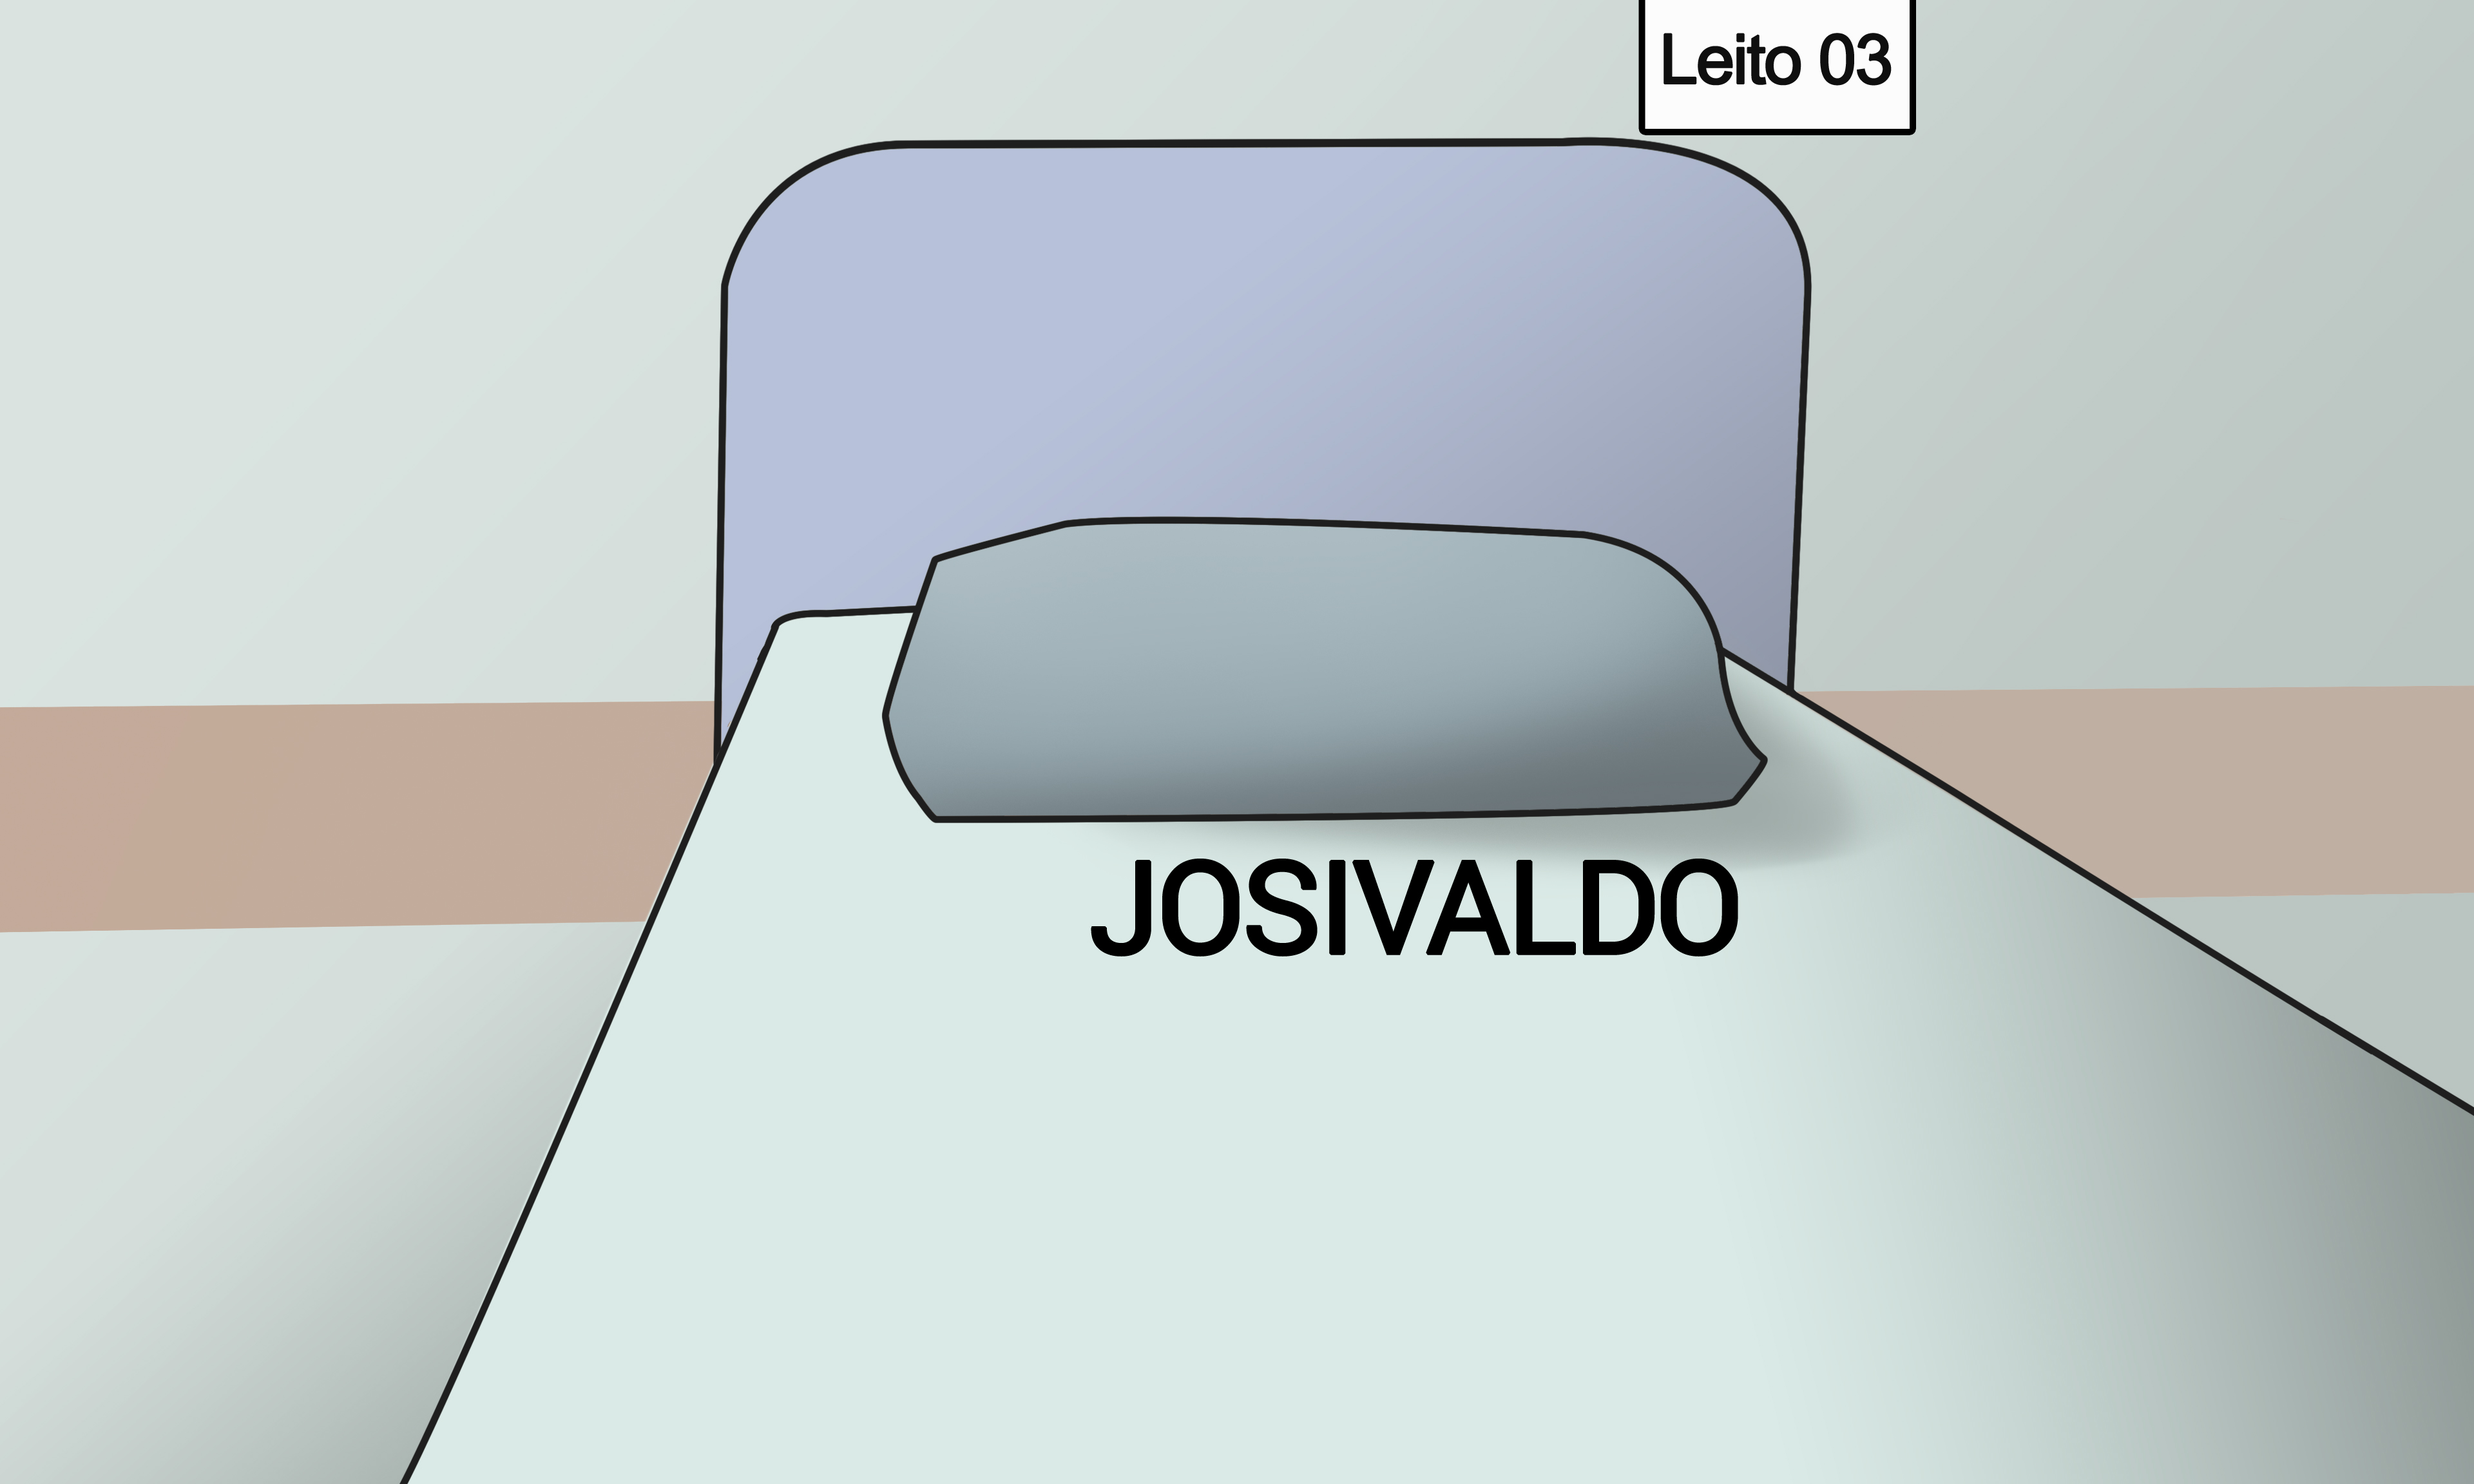
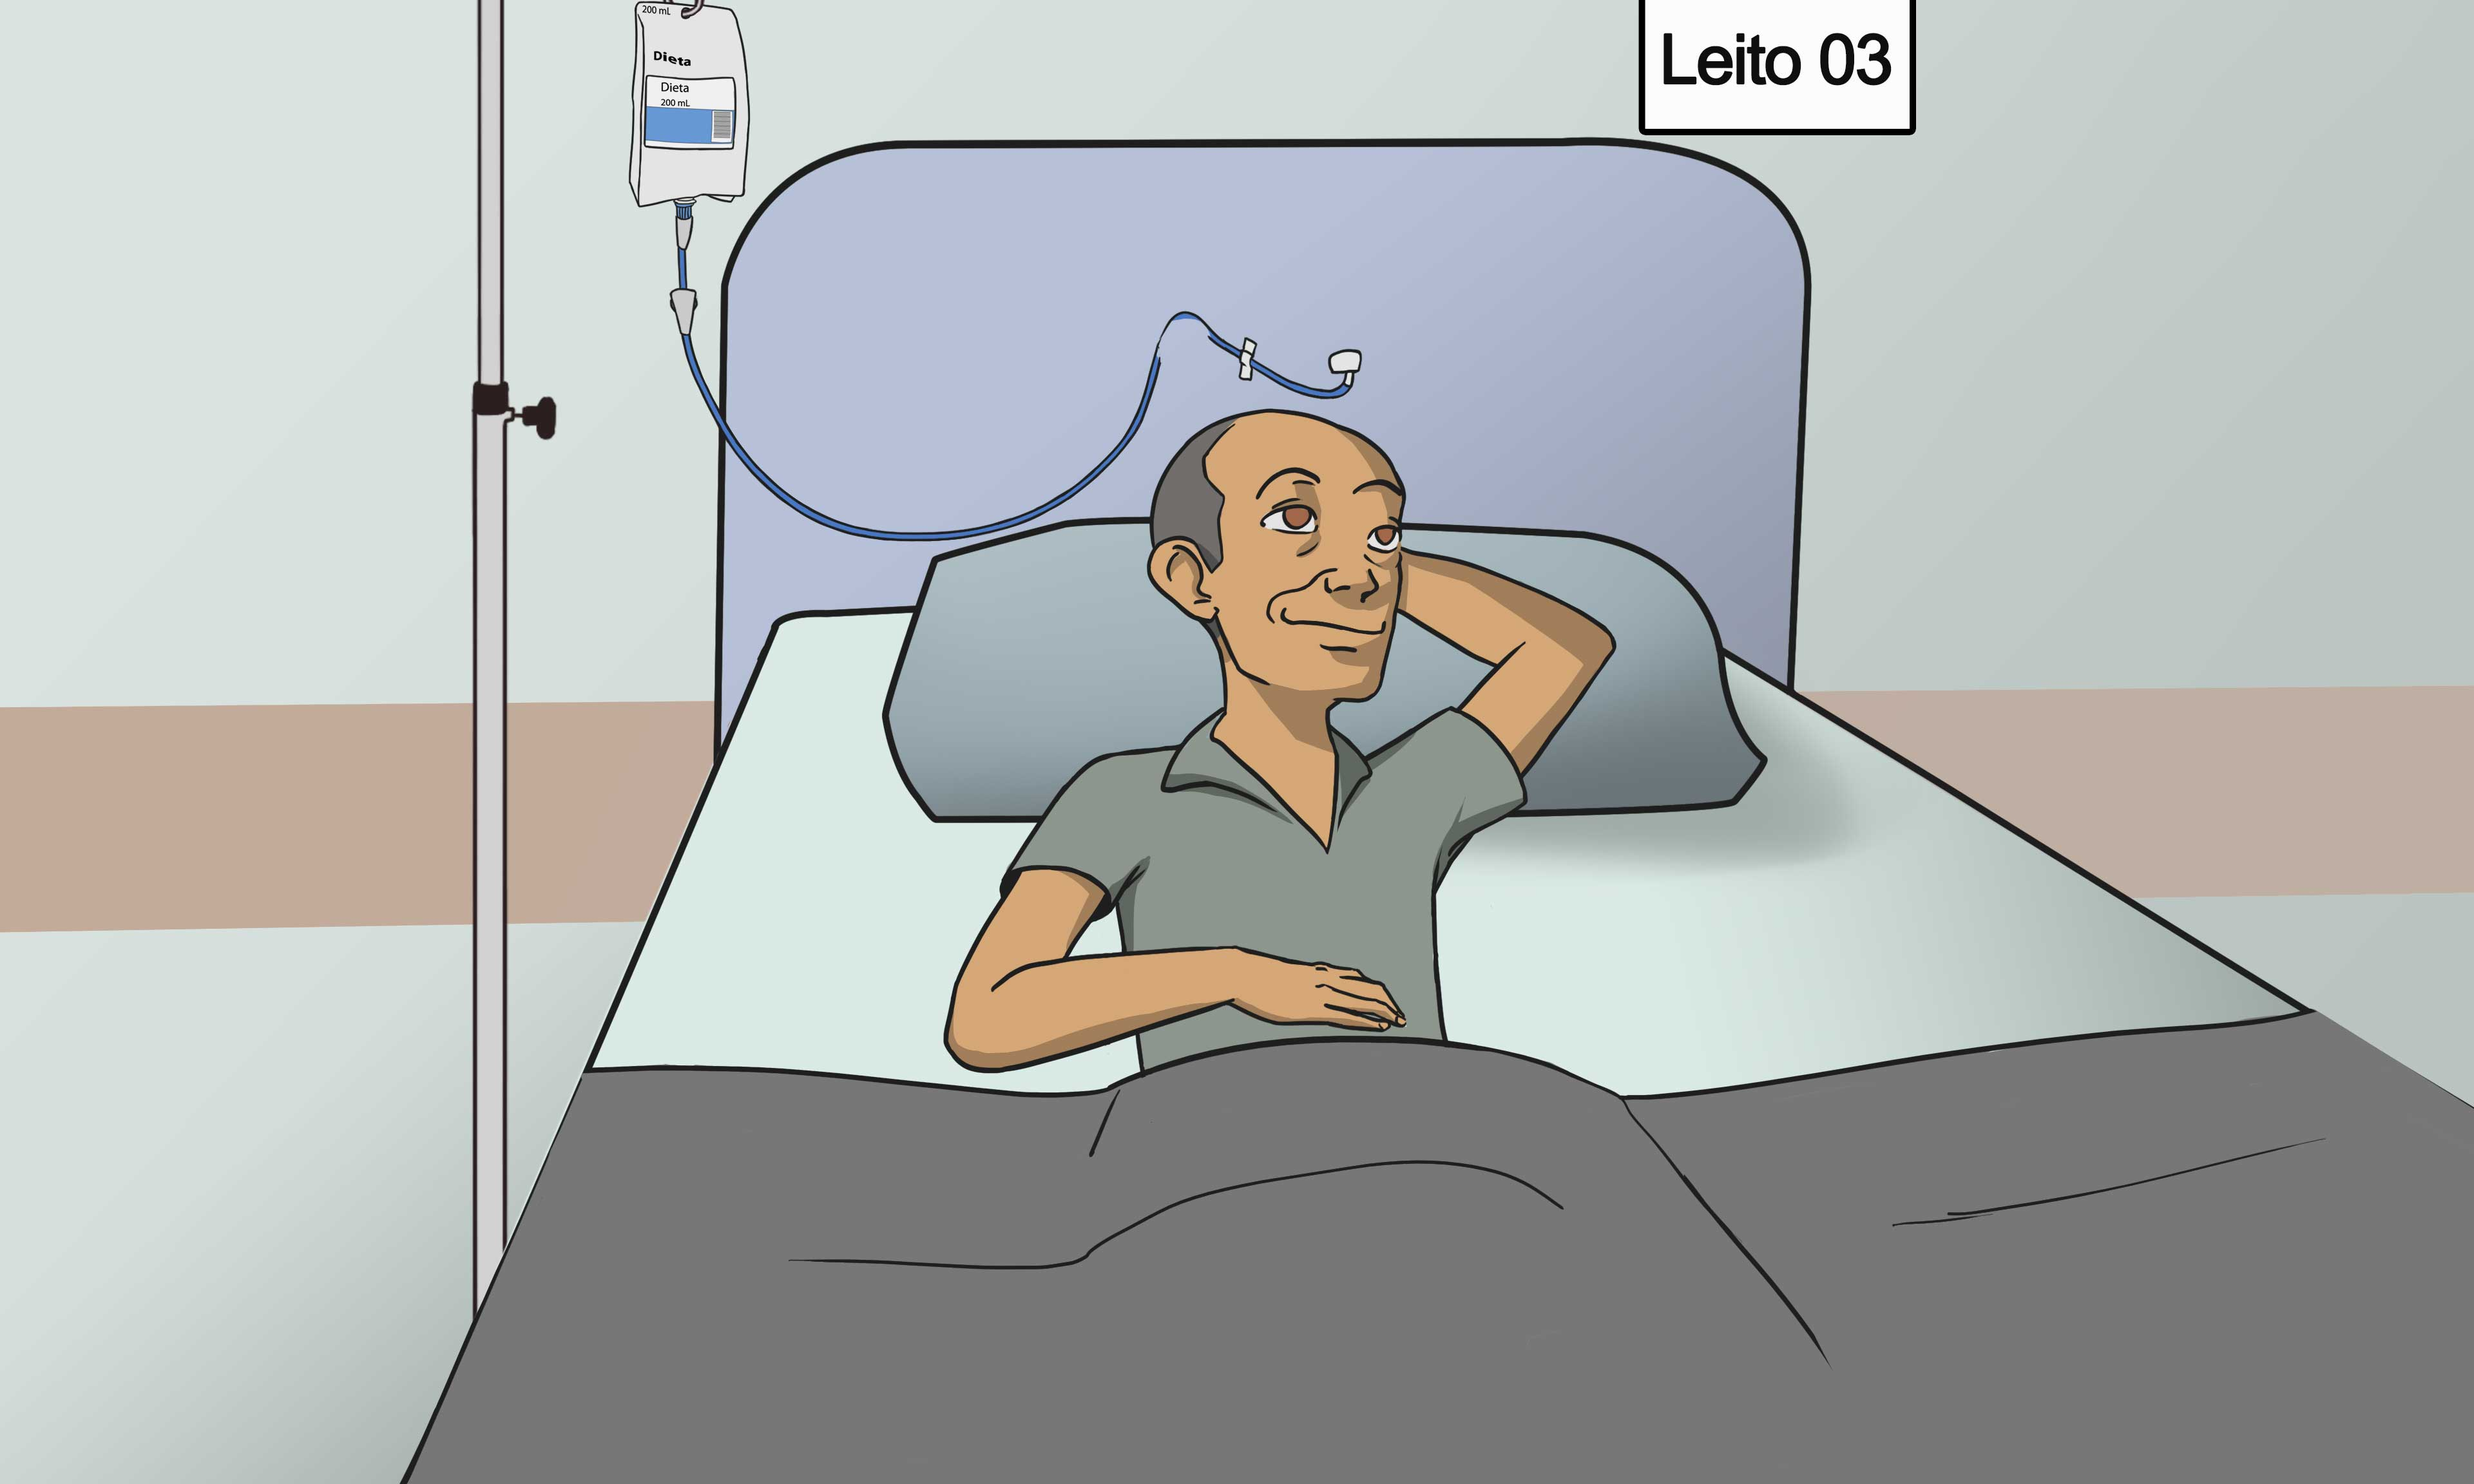
all css done

diff --git a/src/javascript/game/scripts/levels/fase9.js b/src/javascript/game/scripts/levels/fase9.js
@@ -33,6 +33,7 @@ define([ "levelsData", "Scene", "Action", "Level", "Dialog", "InteractiveObject"
      var
             recepcao,
             corredor,
+            alaMasculina,
             alaFeminina,
             centroCirurgico,
             salaDeLeitos,
@@ -45,6 +46,7 @@ define([ "levelsData", "Scene", "Action", "Level", "Dialog", "InteractiveObject"
             zoom;
 
         // region Scenes
+    
 
 
         // region CENTRO CIRURGICO
@@ -75,7 +77,7 @@ define([ "levelsData", "Scene", "Action", "Level", "Dialog", "InteractiveObject"
             // region ALA FEMININA
 
 
-         var alaFeminina = new Scene("alaMasculina", "Ala Masculina")
+         var alaFeminina = new Scene("alaFeminina", "Ala Feminina")
             .setCssClass("scene-bedroom-level9")
             .onLoad(function() {
 
@@ -232,9 +234,9 @@ define([ "levelsData", "Scene", "Action", "Level", "Dialog", "InteractiveObject"
 
 
       // region ALA MASCULINA
-
-
-      var alaMasculina = lib.scenes.alaMasculina.getClone()
+    
+    
+        var alaMasculina = lib.scenes.alaMasculina.getClone()
             .onLoad(function() {
 
 
@@ -703,7 +705,7 @@ define([ "levelsData", "Scene", "Action", "Level", "Dialog", "InteractiveObject"
         // 02
         level.registerScene( alaMasculina );
         // 03
-        level.registerScene( leito );
+        //level.registerScene( leito );
         // 04
         level.registerScene( farmacia );
         // 05
@@ -717,8 +719,8 @@ define([ "levelsData", "Scene", "Action", "Level", "Dialog", "InteractiveObject"
 
         // region Register Modal Scenes
 
-            level.registerModalScene( prontuario );
-    level.registerModalScene( gaveta );
+         level.registerModalScene( prontuario );
+         level.registerModalScene( gaveta );
       //  level.registerModalScene( pulseira );
 
         // endregion
@@ -732,6 +734,8 @@ define([ "levelsData", "Scene", "Action", "Level", "Dialog", "InteractiveObject"
 
             level.getFlag("score_iralaFeminina_horaErrada").setValue( false );
             level.getFlag("score_irCentroCirurgico_horaErrada").setValue( false );
+            level.getFlag("pegou_tudo_postoEnfermagem").setValue( false );
+            level.getFlag("falar_paciente").setValue( false );
 
 
              //  dados do prontuario
@@ -768,6 +772,8 @@ define([ "levelsData", "Scene", "Action", "Level", "Dialog", "InteractiveObject"
 
         level.registerFlag( new Flag("score_iralaFeminina_horaErrada"), false );
         level.registerFlag( new Flag("score_irCentroCirurgico_horaErrada"), false );
+        level.registerFlag( new Flag("pegou_tudo_postoEnfermagem"), false );
+        level.registerFlag( new Flag("falar_paciente"), false );
 
 
         level.setInitialScene( 0 );

diff --git a/src/javascript/game/scripts/levels/fase6.js b/src/javascript/game/scripts/levels/fase6.js
@@ -612,7 +612,7 @@ define([ "levelsData", "Scene", "Action", "Level", "Dialog", "InteractiveObject"
 
     // region LEITO
 
-    var leito = lib.scenes.leitos.ana.getClone()
+    var leito = lib.scenes.leitos.josivaldo.getClone()
     .onLoad(function() {
 
      core.openDialog( 0 );
@@ -672,15 +672,15 @@ define([ "levelsData", "Scene", "Action", "Level", "Dialog", "InteractiveObject"
     leito.registerInteractiveObjects([
 
         new InteractiveObject("io-pulseira_paciente", "Checar pulseira do paciente")
-        .setCssClass("intObj-paciente_01-checar_pulseira")
+        .setCssClass("intObj-paciente_07-checar_pulseira")
         .onClick(function() {
             console.log("IO: pulseira_paciente");
             core.openModalScene("Pulseira");
-            pulseira.open();
+            Pulseira.open();
             core.openCommandBar();
         })
-        .setVisibility( true )
-        .setEnable( false ),
+        .setVisibility( true ),
+    //    .setEnable( false ),
 
 
             new InteractiveObject("io-conversar_paciente07", "Falar com o paciente")
@@ -819,7 +819,7 @@ define([ "levelsData", "Scene", "Action", "Level", "Dialog", "InteractiveObject"
                     level.getFlag("score_verificar_pulseira").setValue( true );
                 }
 
-                    pulseira.close();
+                    Pulseira.close();
                 })
         .setVisibility( true )
         ]);
@@ -852,7 +852,7 @@ define([ "levelsData", "Scene", "Action", "Level", "Dialog", "InteractiveObject"
 
         gaveta.registerActions([
             new Action("btn-fechar_gaveta", "Fechar gaveta")
-                .setCssClass("action-fechar_gaveta")
+                .setCssClass("action-fecharGaveta")
                 .onClick(function() {
                     console.log("Action: fechar_gaveta");
                     // Som
@@ -1054,6 +1054,20 @@ define([ "levelsData", "Scene", "Action", "Level", "Dialog", "InteractiveObject"
             Prontuario.setSsvvRowData( 0, "", "100X10", "65", "16", "93", "36.5", true );
             Prontuario.setSsvvRowData( 1, "", "", "", "", "", "", true );
             Prontuario.setAnotacaoEnfermagemRowData( "", "" );
+            
+            
+            // 'pulseira' content
+            Pulseira.setNameRegExp( /Josivaldo Silva/ );
+            Pulseira.setLeitoRegExp( /0*3/ );
+            Pulseira.setDataRegExp( /02\/02\/1961/ );
+
+            Pulseira.setName("Josivaldo Silva");
+            Pulseira.setLeito("03");
+            Pulseira.setData("02/02/1961");
+            Pulseira.disable();
+            
+            
+            
         });
 
         level.registerFlag( new Flag("conversar_mentor"), false );

diff --git a/src/css/interactiveObjects/interactiveObjects.less b/src/css/interactiveObjects/interactiveObjects.less
@@ -345,11 +345,11 @@ This file is part of Cuidando Bem.
 }
 
 .intObj-paciente_07-checar_pulseira {
-    background-image: @intObj-paciente_07-checar_pulseira;
+    background-image: @intObj-paciente_03-checar_pulseira;
     background-size: contain;
     background-repeat: no-repeat;
-    top: 72.5%;
-    left: 40.5%;
+    top: 63.5%;
+    left: 47.5%;
     width: 5%;
     height: 5%;
 }
@@ -472,8 +472,8 @@ This file is part of Cuidando Bem.
     background-image: @intObj-aguaPotavel;
     background-size: contain;
     background-repeat: no-repeat;
-    top: 37%;
-    left: 23%;
+    top: 33%;
+    left: 55%;
     width: 9%;
     height: 20%;
 }
@@ -482,8 +482,8 @@ This file is part of Cuidando Bem.
     background-image: @intObj-copoDescartavel;
     background-size: contain;
     background-repeat: no-repeat;
-    top: 37%;
-    left: 23%;
+    top: 40%;
+    left: 40%;
     width: 9%;
     height: 20%;
 }
@@ -604,7 +604,7 @@ This file is part of Cuidando Bem.
     background-size: contain;
     background-repeat: no-repeat;
     top: 37%;
-    left: 23%;
+    left: 29%;
     width: 9%;
     height: 20%;
 }
@@ -833,8 +833,8 @@ This file is part of Cuidando Bem.
     background-image: @intObj-seringa_de_10_ml;
     background-size: contain;
     background-repeat: no-repeat;
-    top: 37%;
-    left: 23%;
+    top: 33%;
+    left: 63%;
     width: 9%;
     height: 20%;
 }

diff --git a/src/javascript/game/scripts/levels/fase2.js b/src/javascript/game/scripts/levels/fase2.js
@@ -496,7 +496,7 @@ define([ "levelsData", "Scene", "Action", "Level", "Dialog", "InteractiveObject"
                 // CONSERTAR
                 .setCssClass("action-elevar_grade_cama")
                 .onClick(function() {
-                    if ( level.getFlag("score_jogou_agulha_perfuro").getValue() == true ) {
+                    if ( level.getFlag("descartar_agulha").getValue() == true ) {
                         console.log("Action: Elevar a grade da cama");
                         if ( level.getFlag("score_elevou_grade_cama").getValue() == false ) {
                             level.getFlag("score_elevou_grade_cama").setValue( true );

diff --git a/src/javascript/game/scripts/levels/fase3.js b/src/javascript/game/scripts/levels/fase3.js
@@ -1058,7 +1058,7 @@ define([ "levelsData", "Scene", "Action", "Level", "Dialog", "InteractiveObject"
 
                     if ( level.getFlag("verificar_oximetro_local_cirurgia").getValue() == true && level.getFlag("colocar_placa_neutra").getValue() == true ) {
                         level.getFlag("fim_fase").setValue( true );
-                        console.log("ACABOUUUUU EH TETRAAAA");
+            
                         core.changeScene( 1 );
                     }
 
